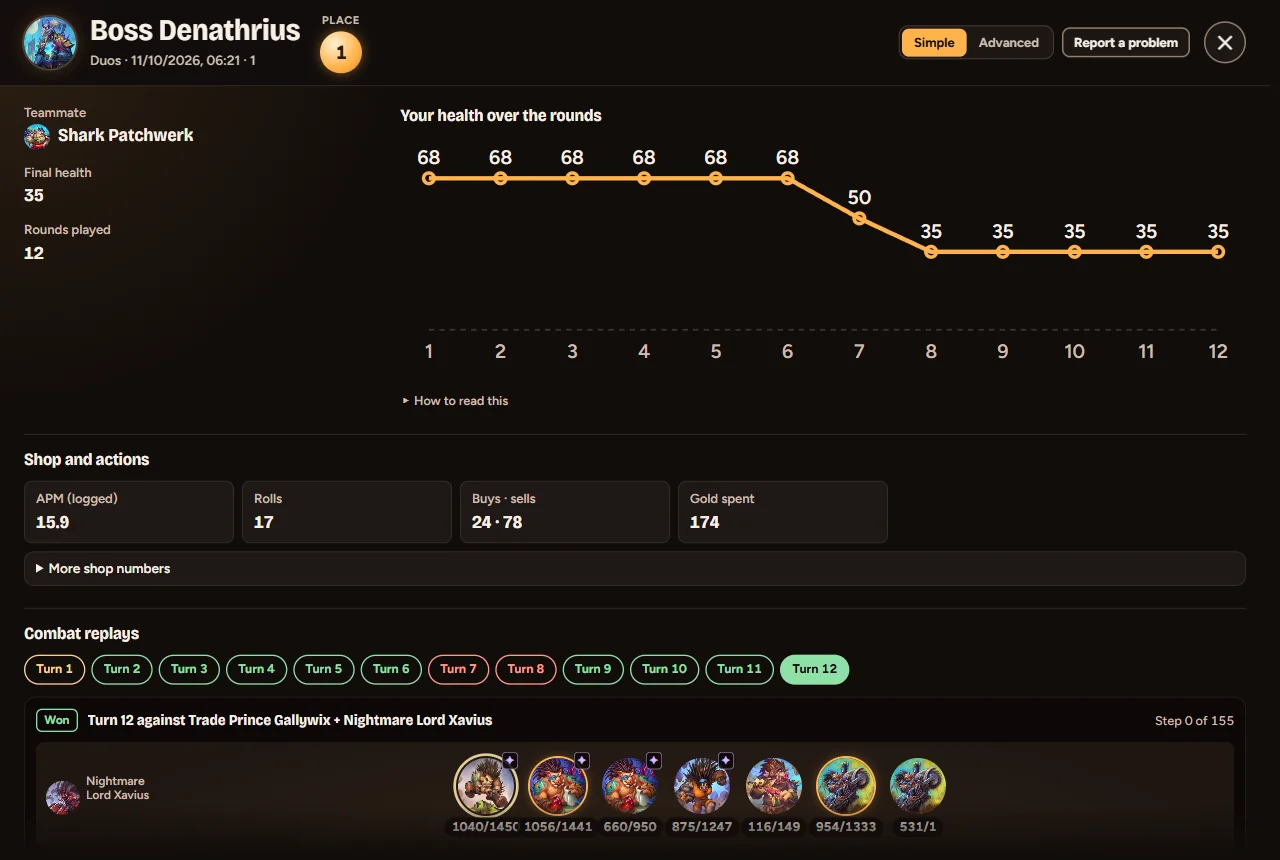
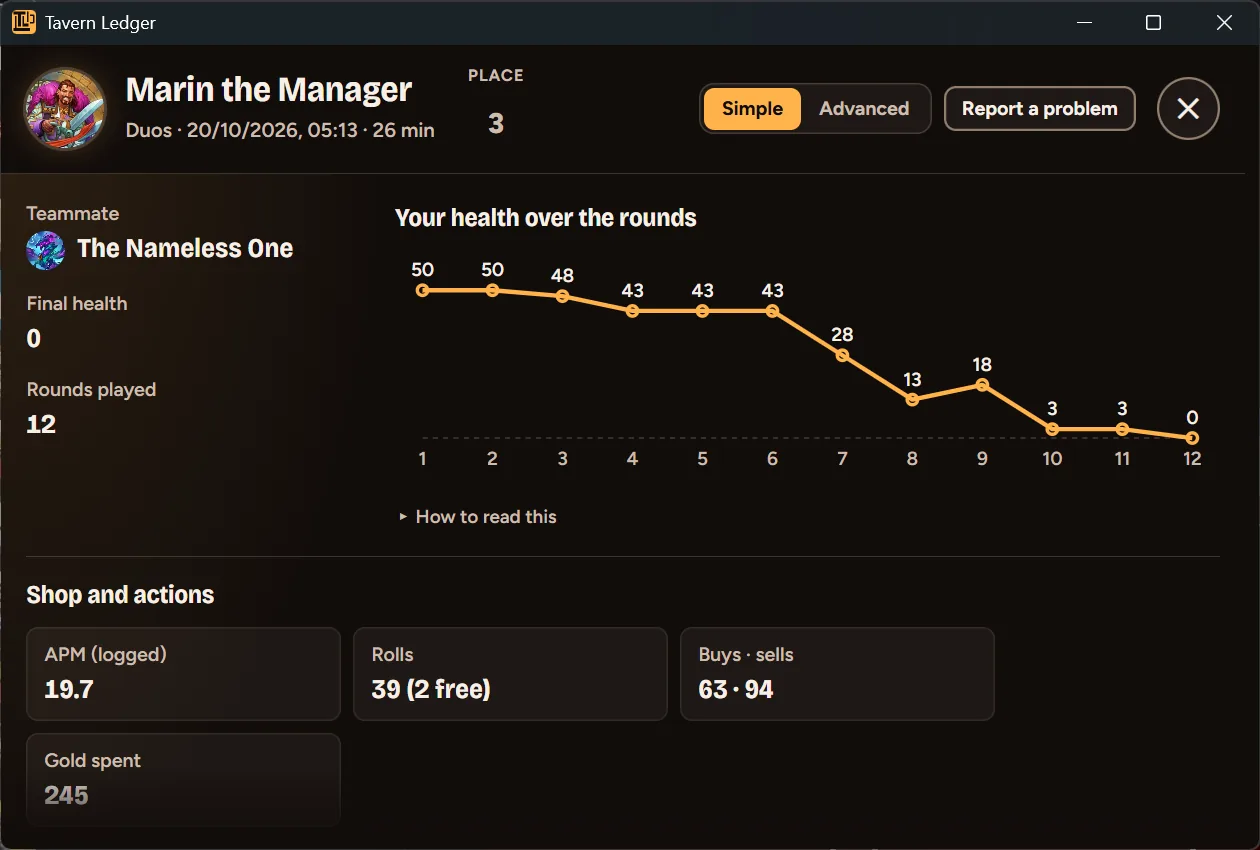
docs: README and screenshots brought up to date with the app and site
README: the overlay's early estimate with hero powers and trinkets, Copy
diagnostics and the WebView2 message, the uninstaller's delete box, the
simulator's hero powers, trinkets and start of combat, and the accuracy
page. New screenshots of the app (own games) and the live site.

diff --git a/README.md b/README.md
@@ -35,8 +35,9 @@
 - **Combat replays**, attack by attack, from the log: what the game played on your screen, never a simulation.
 - **Stats** for Solo and Duos apart: totals, every hero you played, tribes, trinkets and Dark Gifts with their pick rates, plus a Records tab.
 - **An in-game overlay**, if you want one: hover a hero on the game's leaderboard to see the last board you met from them, with tier, health, triples and your record; the next opponent is marked.
-- **Combat odds** in the overlay, from the project's own simulator: during each combat, the chance to win, tie or lose from the two boards that entered play, in Solo and Duos. A hint, not a promise; the website shows [how often it is right](https://tavernledger.net/accuracy/).
+- **Combat odds** in the overlay, from the project's own simulator, in Solo and Duos: an early estimate from the boards before start of combat, with start of combat, hero powers and trinkets played, then the chance to win, tie or lose from the first attack. A hint, not a promise; the website shows [how often it is right](https://tavernledger.net/accuracy/).
 - **Every value says where it comes from**: from the log, inferred, entered by you or unknown. When the app cannot tell, it says so instead of guessing.
+- **When something fails, it says so plainly:** "Copy diagnostics" (Settings, Error log) shows a short summary with no names, accounts or paths, and copies it only when you press Copy; the app never sends it. If the Microsoft Edge WebView2 Runtime is missing, the app says that, with Microsoft's download page.
 - English and Spanish.
 
 ![A game's recap in the app: the hero, the place, the health over twelve rounds and the shop numbers](docs/screenshots/app-recap.webp)
@@ -48,7 +49,8 @@
 - **Upload your games** from the app, only once you sign in and turn it on.
 - **Your dashboard** with your numbers per mode, a filterable games list and a full view of each game, combat replays included.
 - **Public profile, leaderboards and community hero stats**, each one opt-in and off until you turn it on. Leaderboards show display names and numbers from uploaded games, never ratings or BattleTags.
-- **[Combat simulator](https://tavernledger.net/simulator/)** in your browser: load a fight from one of your games (signed in) or set up both boards yourself and see the odds.
+- **[Combat simulator](https://tavernledger.net/simulator/)** in your browser: load a fight from one of your games (signed in) or set up both boards yourself, with each hero's powers and trinkets, and see the odds. It can play start of combat.
+- **[Accuracy page](https://tavernledger.net/accuracy/)**: how often the simulator's most likely result matched the real one, on the developer's own combats, with the share of combats it could not play.
 - English and Spanish.
 
 ![The website's home page: a painted tavern with "Pull up a stool. We kept your games." and a Download button marked "Beta for Windows"](docs/screenshots/web-home.webp)
@@ -60,6 +62,7 @@ Screenshots are from the app and the live website, on the developer's own games.
 ## Privacy and your account
 
 - **Your games stay on your PC.** Nothing is uploaded unless you sign in and turn uploading on.
+- **Uninstalling keeps your games** unless you tick the box "Also delete my games and settings (cannot be undone)" in the uninstaller.
 - **No other players' names.** The app keeps opponents by hero, never by name or BattleTag.
 - **What the app does with the game:** it reads the game's log files and, for the overlay, where your pointer is over the game window. By default (you can turn it off in Settings) it also reads two values the game already shows you, the lobby's five tribes and your own Battlegrounds rating, read-only from the game's memory; they stay on your PC and are never uploaded. Reading the game's memory goes against the letter of Blizzard's EULA (section 1.C) and is not approved by Blizzard, so the account at risk is yours; the [terms](https://tavernledger.net/terms/) and the app's Settings explain it.
 - **What it never does:** no injection, no changes to the game itself, nothing played or clicked for you. The one thing it writes in the game's folders is Hearthstone's two logging settings files (`log.config` and `client.config`), and only when you click Fix in its setup notice; it keeps a `.bak` copy of any file it changes.
